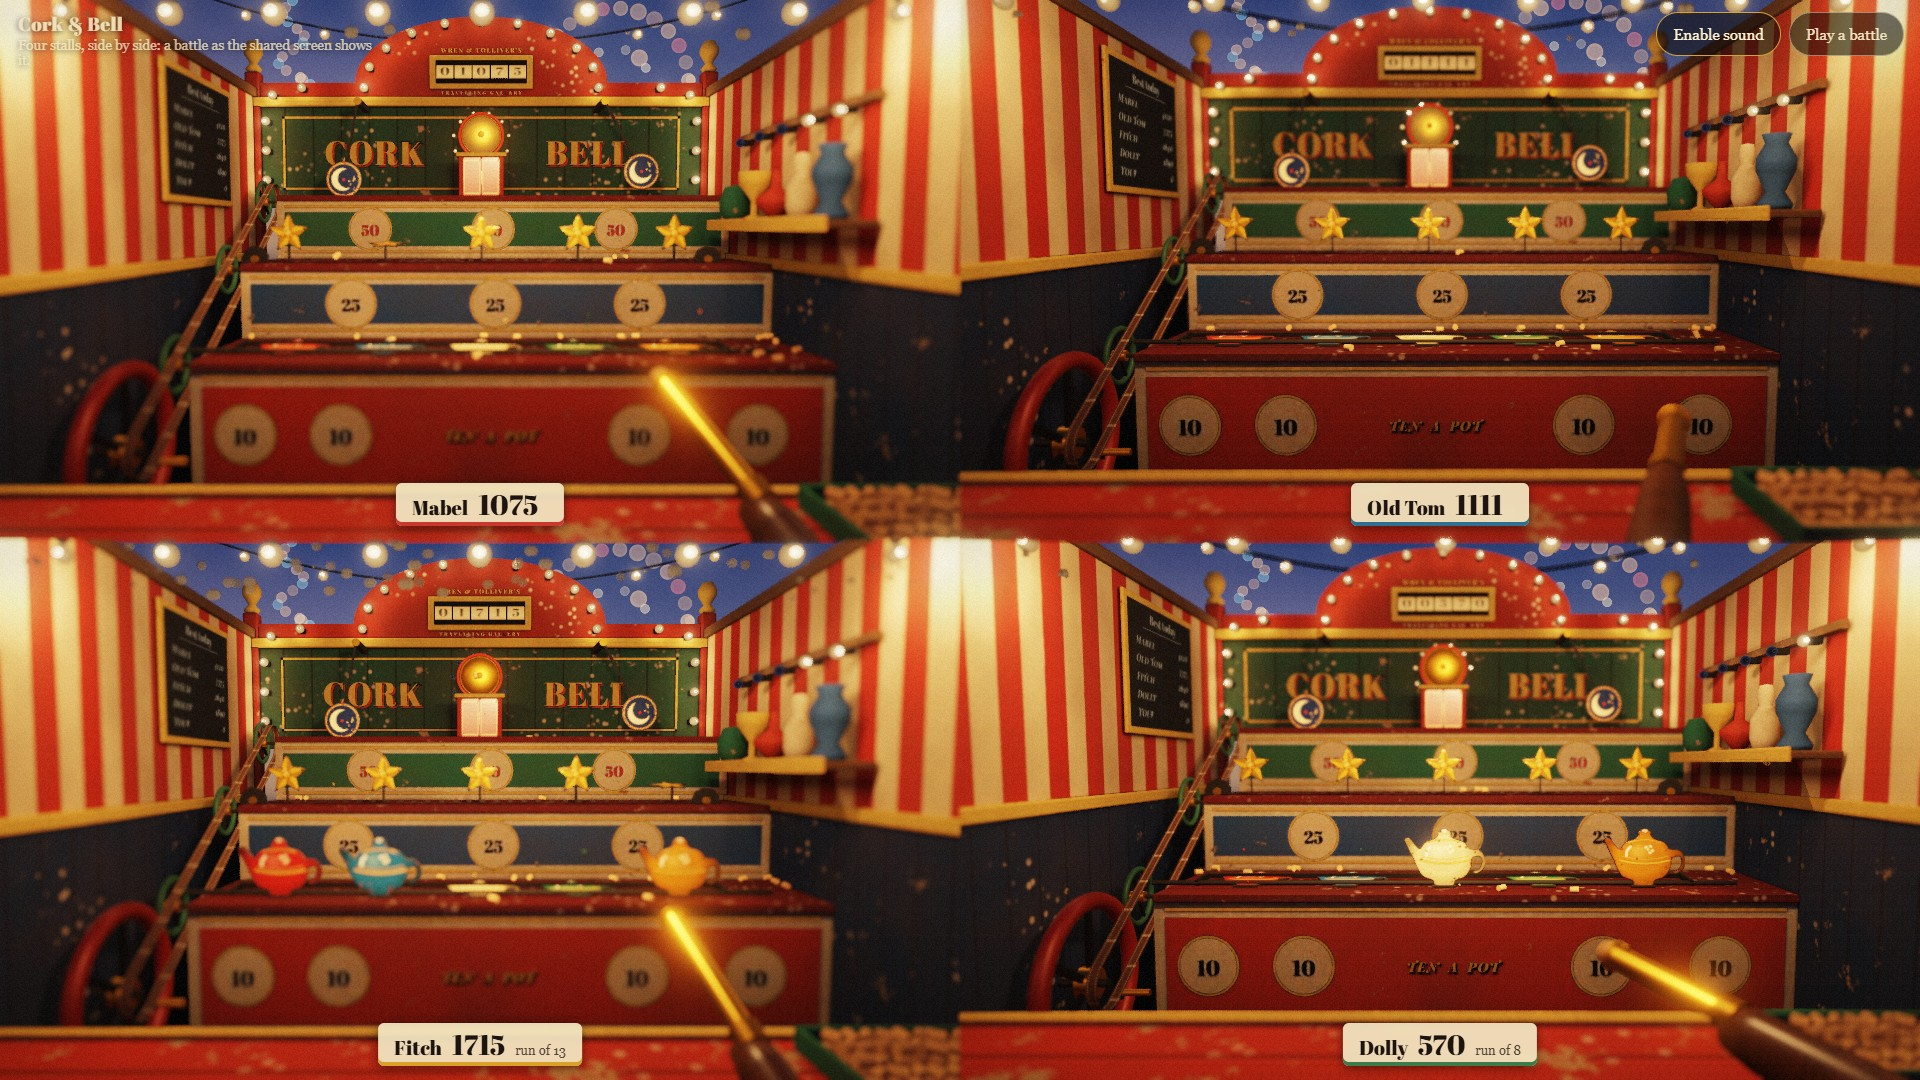
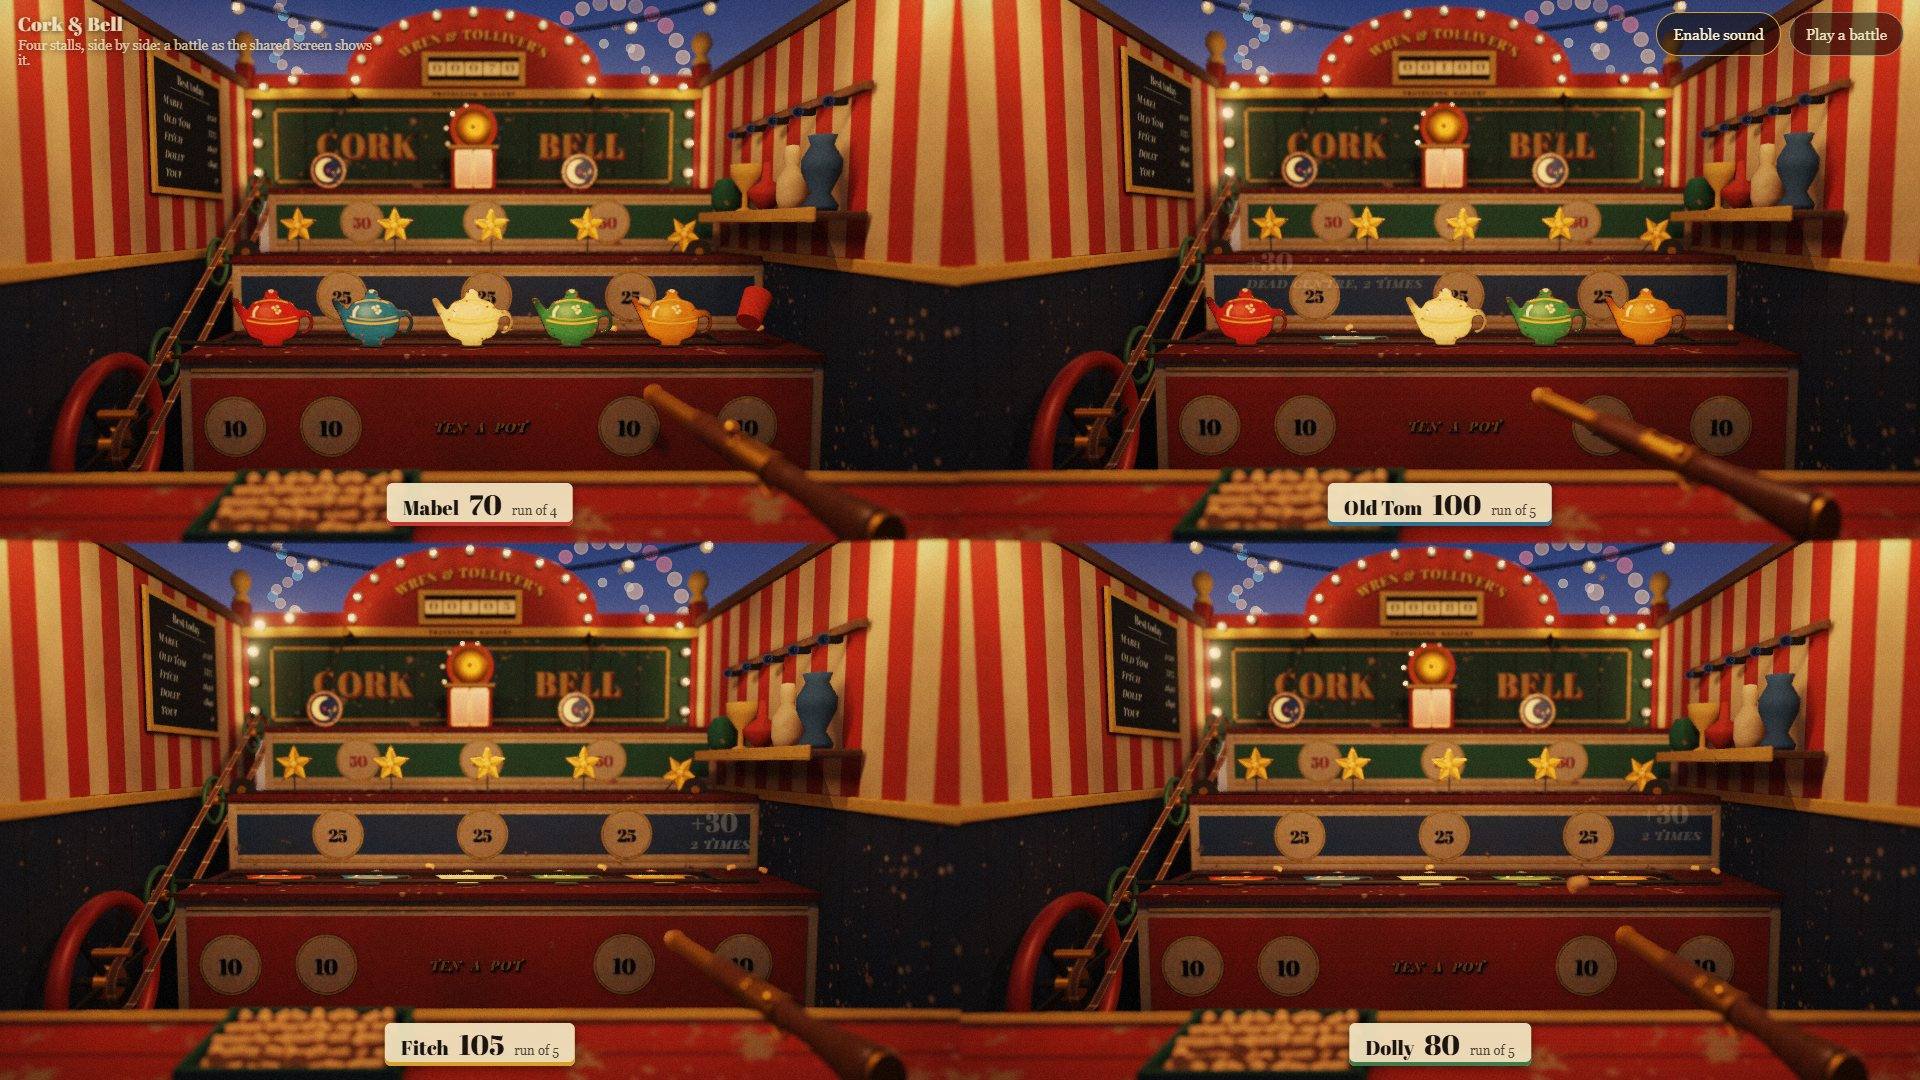
docs(cork-and-bell): new screenshots, the one-row option, the tools' address and the sideways phone

diff --git a/README.md b/README.md
@@ -24,6 +24,10 @@ Nothing is deployed.
 `wrangler dev` watches this repository and restarts the local server when a file in it changes.
 A restart puts every room back in its lobby, so do not edit files (or save screenshots into the repository) while a battle is being played or tested.
 The tools save their screenshots to the temp directory for that reason (`CAB_SHOTS` chooses another place).
+They talk to `http://localhost:8791/cork-and-bell/` unless `CAB_BASE`, `PORT` or `--base=` says otherwise, and their browsers are always muted.
+
+Phones are meant to be held sideways.
+An upright phone still plays, with its own framing and a hint to turn it.
 
 | Address | What you get |
 | --- | --- |
@@ -36,6 +40,7 @@ The tools save their screenshots to the temp directory for that reason (`CAB_SHO
 | `?view=four` | Four stalls side by side with a bot in each: the battle as a shared screen shows it, with no room needed. |
 | `?join=4821` | The lobby with a PIN filled in (this is what the QR code opens). |
 | `?quality=low` or `high` | Lens and shadow quality (phones start on low). |
+| `?grid=row` | With four stalls on a shared screen: one row of four upright stalls instead of two rows of two. |
 
 A battle: press **Play a battle**, then **Make a room** (you play on this device) or **Use this screen as the shared screen** (a laptop or television shows every stall; players join on their phones with the PIN or the QR code).
 
@@ -51,6 +56,7 @@ Decided before any code, and kept everywhere.
 - **Light** is tungsten bulbs with visible filaments against a blue dusk. The static set's light is baked in Cycles (bulbs and sky separately, so the lamps can really go out). Moving things are lit live by the same sky and lamps and cast soft shadows onto the baked set.
 - **Motion** is mechanical and has one source: a flywheel on the left wall turns a belt; the belt turns a wheel for each row; a cam bar lifts the fallen front row, a chain carries the stars, the pendulums swing, the shutter opens. Everything speeds up together.
 - **The lens** has shallow depth of field that racks to the row under the aim, bloom only on real lamps, a filmic shoulder and a little grain.
+  At low quality the blur is made at half size with a fixed kernel (no per-pixel noise) and edges are smoothed in the last pass.
 
 ## The game
 
